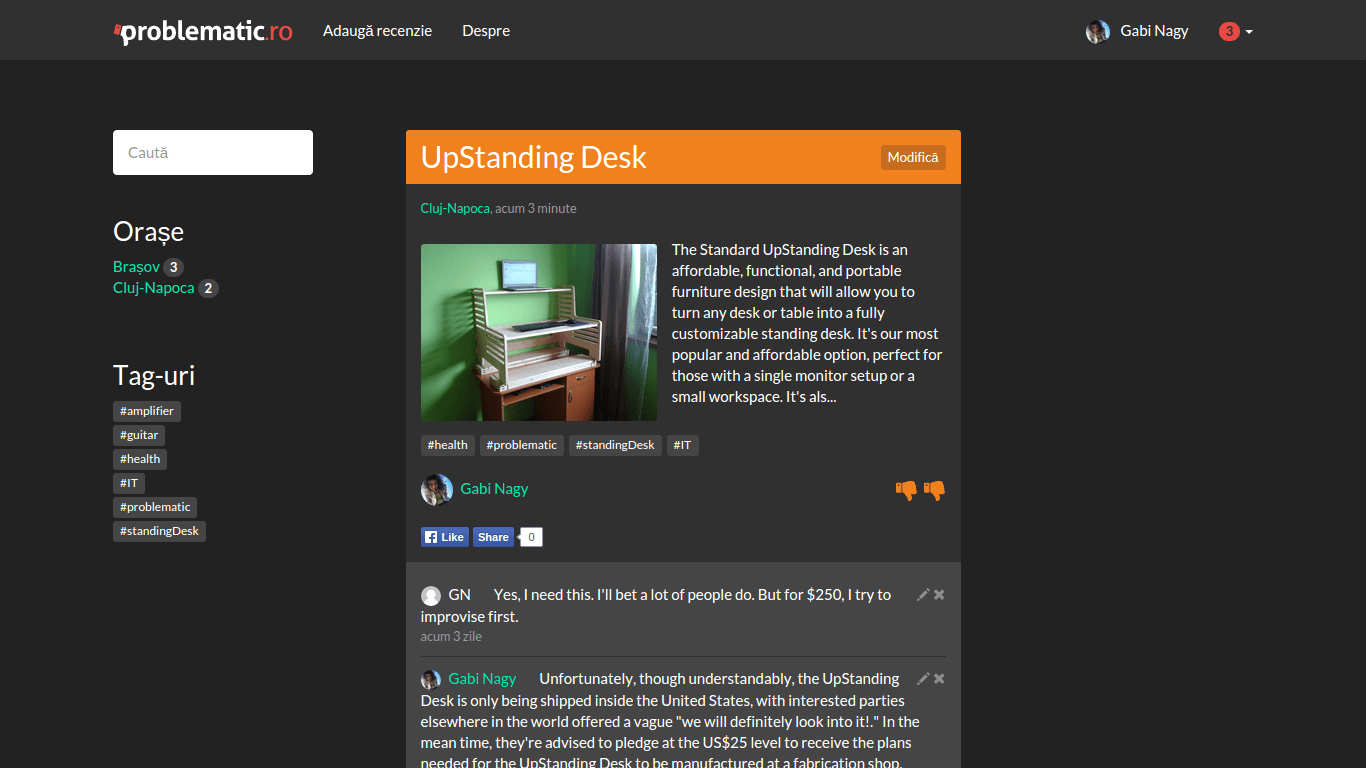
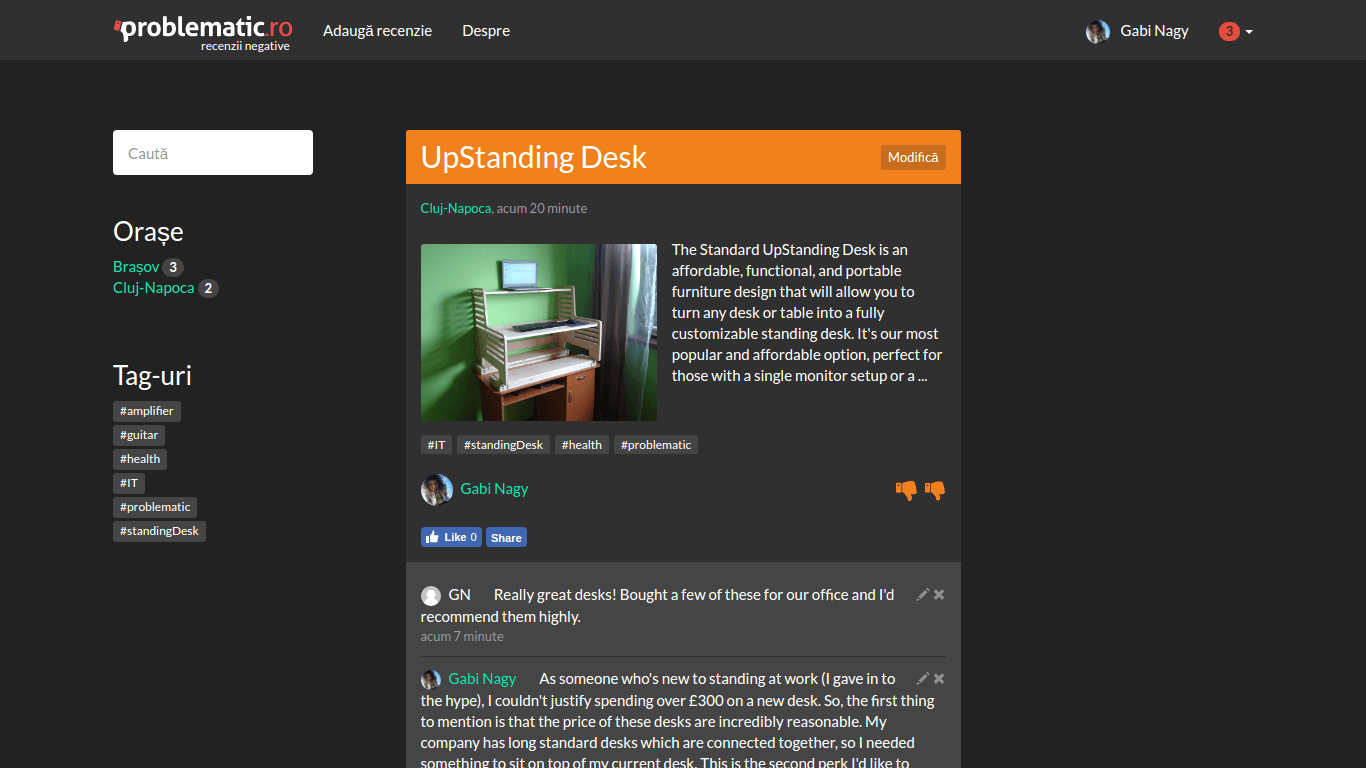
Add full version of problematic.ro screenshot

diff --git a/hire-me/index.html b/hire-me/index.html
@@ -44,9 +44,9 @@
 </style>
 
 <p>I am available for freelance web development work. I've done a lot of different things over the years, from conference websites to real time maps and from medical apps to real estate search engines so if it moves on the web and it's not a spider, chances are I can give you a hand. Below, some of my more noteworthy projects.</p>
-<h2><a href="problematic.png" target="_blank">problematic.ro</a></h2>
+<h2><a href="problematic-full.png" target="_blank">problematic.ro</a></h2>
 <p>The place negative reviews call home.</p>
-<p><a href="problematic.png" target="_blank"><img class="img-full" src="problematic.png" alt="problematic.ro"></a></p>
+<p><a href="problematic-full.png" target="_blank"><img class="img-full" src="problematic.png" alt="problematic.ro"></a></p>
 <p class="caption">Technologies: <a href="http://getbootstrap.com/">Bootstrap</a>, <a href="http://flask.pocoo.org/">Flask</a></p>
 
 <h2><a href="https://ctf365.com/pages/map" target="_blank">CTF365 attack map</a></h2>
